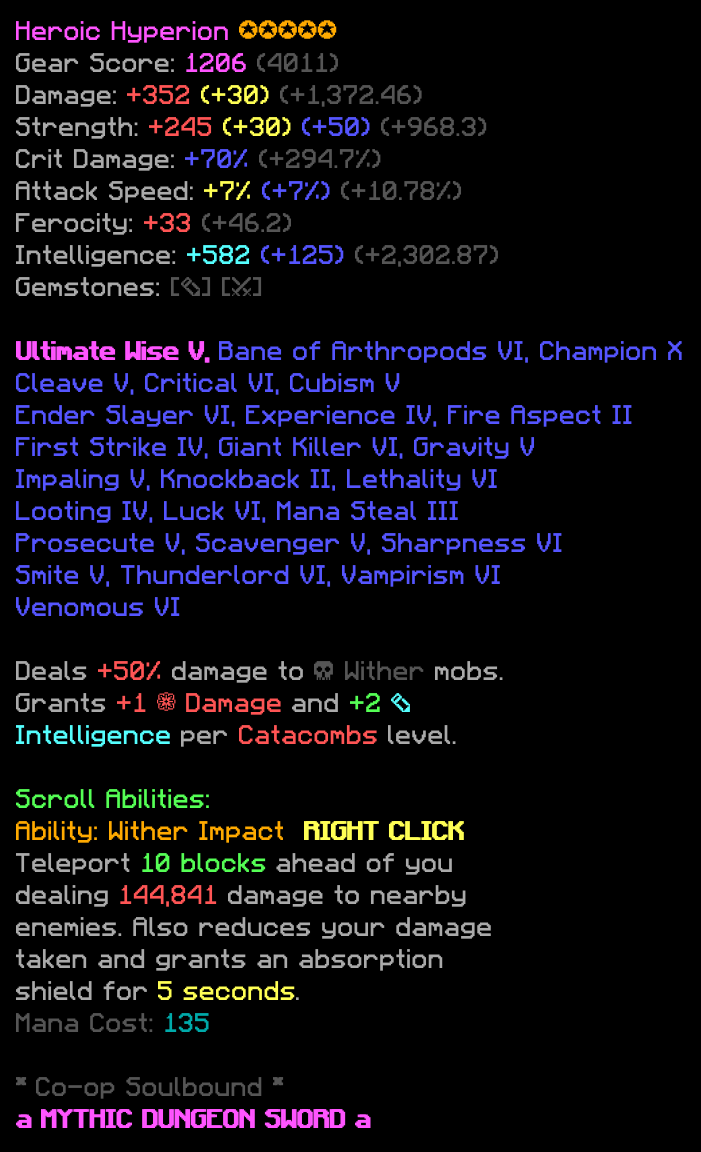
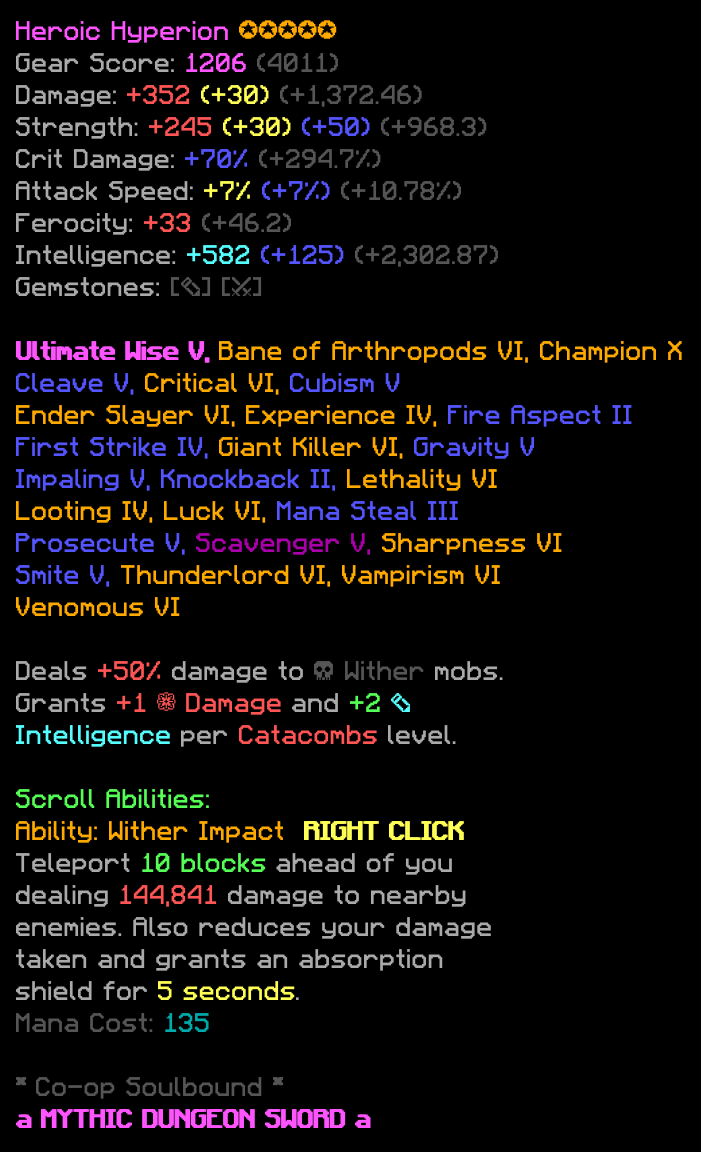
fix(readme): examples and readme fix

Changed region(s): [[0.03, 0.2812, 0.9886, 0.5312], [0.0, 0.3438, 0.1198, 0.375], [0.7789, 0.4688, 0.8088, 0.5]]

diff --git a/README.md b/README.md
@@ -4,7 +4,7 @@
 
 ### 🎨 Turn Minecraft Hypixel Skyblock item lore into beautiful images
 
-[![Rust](https://img.shields.io/badge/Rust-1.70+-orange?logo=rust)](https://www.rust-lang.org)
+[![Rust](https://img.shields.io/badge/Rust-1.85+-orange?logo=rust)](https://www.rust-lang.org)
 [![License](https://img.shields.io/badge/License-MIT-blue.svg)](LICENSE)
 
 <p align="center">
@@ -20,7 +20,7 @@
 | Feature | Description |
 |---------|-------------|
 | 🎨 **Full Color Support** | Renders all Minecraft § format codes with accurate colors |
-| ✨ **Bold Text** | Supports `§l` bold formatting with proper offset rendering |
+| ✨ **t6 and t7 support** | Supports gold color for t6 and purple color for t7 |
 | 🔤 **Faithful Font** | Uses the iconic Minecraft Faithful Unicode font for authentic look |
 | 📏 **Auto-sizing** | Automatically calculates image dimensions based on text content |
 | ⚡ **Fast & Lightweight** | Pure Rust with minimal dependencies — blazing fast rendering |
@@ -30,7 +30,7 @@
 ## 🚀 Quick Start
 
 ### Prerequisites
-- [Rust](https://rustup.rs/) 1.70 or later
+- [Rust](https://rustup.rs/) 1.85 or later
 
 ### Installation
 
@@ -42,6 +42,7 @@ cd skyblock-lore-renderer
 # Build in release mode
 cargo build --release
 
+# Now it should appear in ./target/release/skyblock-lore-renderer
 ```
 
 ---
@@ -55,8 +56,8 @@ skyblock-lore-renderer <input.txt> <output.png>
 ### Example
 
 ```bash
-# Render a Hyperion sword lore
-./skyblock-lore-renderer examples/hyperion.txt my_hyperion.png
+# Render a Hyperion
+./skyblock-lore-renderer examples/hyperion.txt hyperion.png
 
 # Render a Plasmaflux Power Orb
 ./skyblock-lore-renderer examples/plasmaflux.png my_orb.png
@@ -123,24 +124,6 @@ The renderer supports standard Minecraft `§` format codes:
 
 ---
 
-## 🏗️ Architecture
-
-```
-skyblock-lore-renderer/
-├── 📁 src/
-│   ├── 📄 main.rs      # CLI entry point, image generation
-│   └── 📄 lore.rs      # Lore parsing, text rendering, format code handling
-├── 📁 examples/
-│   ├── 📄 hyperion.txt     # Example: Mythic Hyperion lore
-│   ├── 📄 hyperion.png     # Rendered output
-│   ├── 📄 plasmaflux.txt   # Example: Legendary Plasmaflux
-│   └── 📄 plasmaflux.png   # Rendered output
-├── 📁 fonts/
-│   └── 🔤 faithful-unicode.ttf   # Minecraft Faithful font
-├── 📄 Cargo.toml
-└── 📄 .env
-```
-
 ### How It Works
 
 1. 📖 **Parse** — Regex extracts `§` format codes and text segments
@@ -169,26 +152,31 @@ skyblock-lore-renderer/
 
 - [x] 🎨 Basic color format code support
 - [x] ✨ Bold text rendering (`§l`)
-- [ ] 🖼️ Enchantments tier 6 and 7 custom colors toggle
+- [x] 🖼️ Enchantments tier 6 and 7 custom colors toggle
 - [ ] 🔄 Italic support (`§o`)
 - [ ] ➖ Strikethrough support (`§m`)
 - [ ] ➖ Underline support (`§n`)
-- [ ] 🖼️ Custom background support
+- [?] 🖼️ Custom background support
 
 ---
 
 ## 📜 License
 
 This project is licensed under the **MIT License**.
+Feel free to modify this api as you want
 
 ---
 
-<div align="center">
+<p align="center">
+  <samp>
+    Made with <b>❤️</b> by <a href="https://github.com/megawattka">@megawattka</a>
+  </samp>
+</p>
 
-### Made with ⚡ by [megawattka](https://github.com/megawattka)
+<p align="center">
+  <sub><samp>independent · not affiliated with Hypixel or Mojang Studios</samp></sub>
+</p>
 
-*Not affiliated with Hypixel or Mojang Studios*
-
-⭐ Star this repo if you find it useful!
-
-</div>
+<p align="center">
+  <a href="https://github.com/megawattka/skyblock-lore-renderer">⭐ star this repo</a> if you found it useful
+</p>